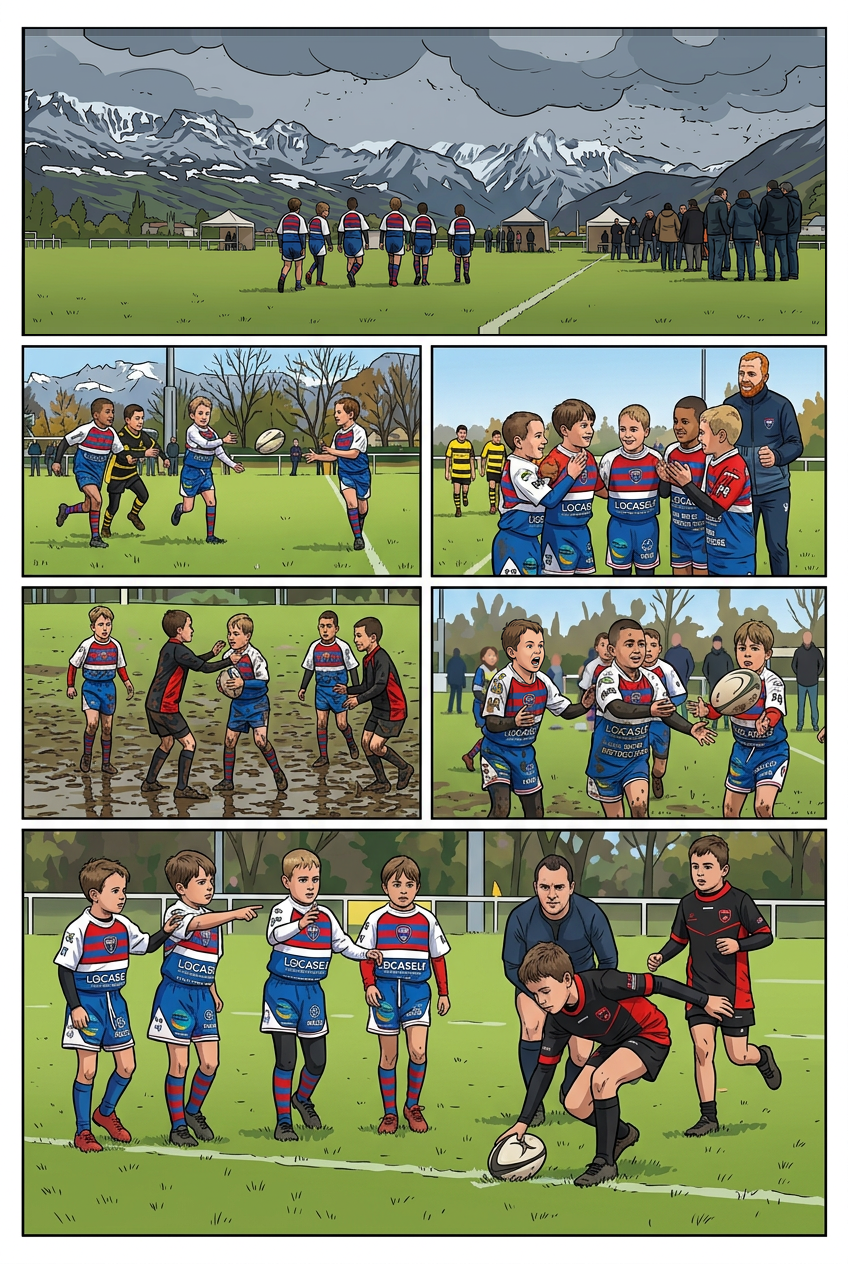
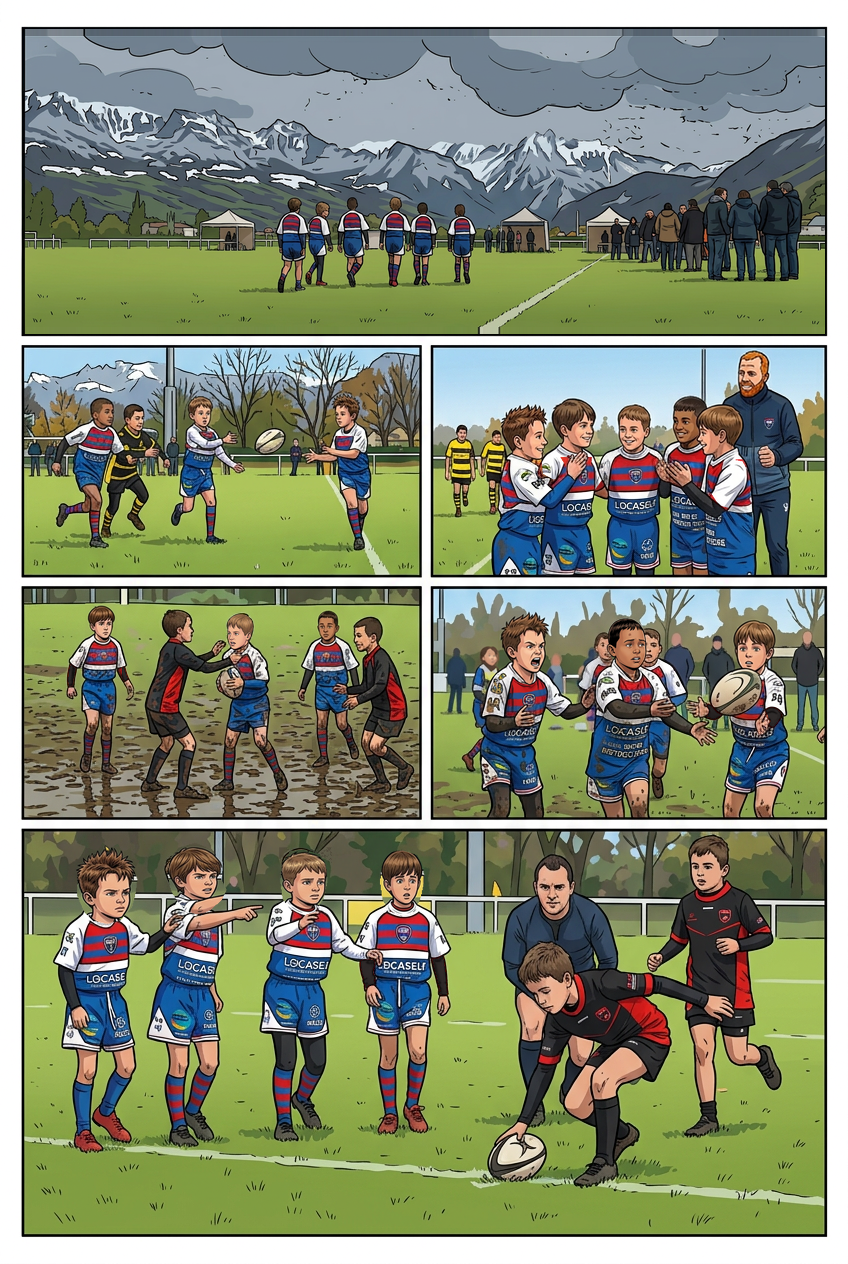
Reprendre la planche 13 et distinguer les controles sans retouche

diff --git a/outils/retouche/verifier_revue_couverture.py b/outils/retouche/verifier_revue_couverture.py
@@ -28,7 +28,22 @@ def main():
     changes = plan['corrections']
     ids = {c['vignette'] for c in changes}
     assert len(ids) == len(changes), 'Correction dupliquée'
-    assert ids == {v['vignette'] for v in frames if v['etat'] != 'a_controler_individuellement'}
+    unchanged = plan.get('relectures_sans_retouche', [])
+    reviewed_ids = {r['vignette'] for r in unchanged}
+    assert len(reviewed_ids) == len(unchanged), 'Relecture sans retouche dupliquée'
+    assert not (ids & reviewed_ids), 'Une relecture sans retouche ne doit pas être comptée comme correction'
+    assert reviewed_ids == {v['vignette'] for v in frames if v['etat'] == 'controle_premiere_passe_sans_retouche_relecture_globale_a_faire'}
+    assert ids | reviewed_ids == {v['vignette'] for v in frames if v['etat'] != 'a_controler_individuellement'}
+    for r in unchanged:
+        assert r['page'] == int(r['vignette'].split('-')[0])
+        path = ROOT / r['fichier']
+        before = Image.open(BytesIO(original(r['base'], path))).convert('RGB')
+        after = Image.open(path).convert('RGB')
+        box = tuple(r['rectangle'])
+        assert 0 <= box[0] < box[2] <= after.width and 0 <= box[1] < box[3] <= after.height
+        old_pixels = before.crop(box).tobytes()
+        assert old_pixels == after.crop(box).tobytes(), f"Relecture sans retouche modifiée : {r['vignette']}"
+        assert hashlib.sha256(old_pixels).hexdigest() == r['sha256_pixels']
     assert {e['page'] for e in plan['fichiers_apres']} == set(range(31))
     assert len(plan['fichiers_apres']) == 31
     for c in changes:
@@ -70,9 +85,13 @@ def main():
     assert bilan['vignettes_corrigees_premiere_passe'] == counts['reprise_graphique']
     assert bilan['vignettes_correction_partielle'] == counts['correction_partielle']
     assert bilan['vignettes_a_controler_individuellement'] == pending
+    assert bilan.get('vignettes_controlees_sans_retouche', 0) == len(unchanged)
+    assert counts['reprise_graphique'] + counts['correction_partielle'] + pending + len(unchanged) == len(frames)
     assert bilan['validations_definitives'] == 0
     print('OK : couverture inchangée, 31 empreintes/dimensions, seules les corrections déclarées ont changé, localité par masques.')
     print(f"Inventaire : 153 vignettes ; {counts['reprise_graphique']} premières reprises, {counts['correction_partielle']} corrections partielles, {pending} contrôles individuels encore à faire.")
+    if unchanged:
+        print(f'Contrôles sans retouche : {len(unchanged)} ; pixels identiques à leur référence enregistrée, aucune certification graphique définitive.')
     print('EN COURS. Aucune validation définitive de ressemblance ou de style par ces tests.')
 
 

diff --git a/Planches-dessin/validation/REVUE-COUVERTURE.md b/Planches-dessin/validation/REVUE-COUVERTURE.md
@@ -21,12 +21,13 @@ Les huit recadrages exacts sont dans `revue-couverture/<Prénom>-couverture.png`
 |---|---:|
 | Planches vues en ensemble | 30 |
 | Vignettes réellement inventoriées | 153 |
-| Premières reprises intégrées, encore à relire | 64 |
+| Premières reprises intégrées, encore à relire | 69 |
 | Corrections seulement partielles, à poursuivre | 1 |
-| Autres vignettes restant à contrôler individuellement | 88 |
+| Contrôles sans retouche, encore à relire | 1 |
+| Autres vignettes restant à contrôler individuellement | 82 |
 | Validations définitives de style et ressemblance | **0** |
 
-Les 65 vignettes ayant reçu une intervention ne sont pas 65 vignettes définitivement conformes. Le reste de la revue demandée n’est pas terminé. Le manifeste `REVUE-COUVERTURE.json` conserve une entrée et un état explicite pour chacune des 153 vignettes.
+Les 70 vignettes ayant reçu une intervention ne sont pas 70 vignettes définitivement conformes. Le reste de la revue demandée n’est pas terminé. Le manifeste `REVUE-COUVERTURE.json` conserve une entrée et un état explicite pour chacune des 153 vignettes.
 
 ## Première livraison : 26/3 et 26/6
 
@@ -236,6 +237,28 @@ Comparatif : `revue-couverture/lot-n/12-AVANT-APRES.jpg` ; six masques à la ré
 
 **Réserves globales :** les exercices ne sont pas certifiés tactiquement par la seule correction des visages : recul de Julien en 12/1, touchés simultanés à deux mains en 12/2 et distance d'un mètre derrière le porteur en 12/3 restent à relire. Plis/marquages des manches, cohérence des sous-maillots de pluie, carnation de Nolann et encrage des corps/décors restent soumis à la relecture transversale. La scène de passe réussie peut être joyeuse, tandis que l'agacement de Léon, la réaction de Lyssandro et la gêne de Milo sont conservés en 12/6. Aucun dialogue, bulle ni onomatopée ajouté.
 
+## Quinzième livraison : les six vignettes de la planche 13
+
+**Cinq premières reprises et un contrôle sans retouche (13/1)**. Le suivi distingue désormais une case examinée mais conservée d'une correction réelle : la case d'ambiance ne doit pas être artificiellement modifiée pour faire monter un compteur. Ce nouvel état reste soumis à relecture globale et n'est pas une validation définitive.
+
+**13/1 :** paysage, montagnes enneigées, ciel nuageux, terrain et six joueurs anonymes de dos comparés à la source. Traitement déjà dessiné en BD et pas de portrait principal à reprendre à cette passe. Pixels intégralement conservés ; la scène ne prescrit pas seulement cinq joueurs. Vérifier encore l'encrage avec toute la série lors de la relecture finale.
+
+**13/2 :** Nolann passeur à gauche, Ayden relayeur au centre et Léon receveur à droite repris sur leurs portraits : courte frange brun foncé/teint mat, courte frange châtain clair, pics châtains. Candidat entier rejeté car les maillots d'Ayden/Léon devenaient blancs unis : portraits seuls retenus. Ballon, mains, adversaire jaune/noir, courses et décor hors masques conservés. Le dessin ne montre qu'une étape de la chaîne de passes, pas tout l'essai.
+
+**13/3 :** Cinq enfants en célébration gauche à droite Léon/Lyssandro/Ayden/Nolann/Milo identifiés à partir des coupes et des sources : pics châtains, frange de côté, courte frange châtain clair, courte frange brune et teint mat, frange pleine. Portrait de Kilian roux barbu repris. Manches courtes de Lyssandro et Milo remises en blanc, joie et mains conservées. Deux adversaires jaune/noir derrière maintenus hors masques.
+
+**13/4 :** Trois RCM repris : Milo à gauche, Ayden porteur au centre, Nolann derrière à droite. Grimace trop vieillie du premier Ayden rejetée au profit d'un portrait local plus jeune. Teint mat de Nolann raccordé localement aux membres visibles ; sous-manches rouges de Milo corrigées en noir. Les deux défenseurs rouge/noir, contacts à deux mains, ballon et terrain boueux restent d'origine hors masques.
+
+**13/5 :** Léon criant à gauche, Nolann passeur au centre et Milo surpris à droite repris. Le premier visage de Nolann était trop grimaçant : portrait local spécifique avec courte frange brun foncé et traits d'enfant, teint mat raccordé aux mains/jambes. Sous-manches rouges de Milo corrigées en noir. Ballon rebondissant, mains et deux enfants derrière ainsi que spectateurs hors masques conservés.
+
+**13/6 :** Quatre RCM visibles gauche à droite Léon/Lyssandro/Ayden/Milo : têtes/coiffures reprises, Ayden ramené du blond au châtain clair. Sous-manches rouges de Milo remises en noir ; sous-maillot blanc d'Ayden conservé sans importer le rouge inventé du candidat. Essai adverse, ballon, ligne, deux Rumilly rouge/noir et arbitre hors masques inchangés. Nolann n'est pas ajouté artificiellement à ce cadrage de quatre RCM.
+
+Preuves : `revue-couverture/lot-o/13-AVANT-APRES.jpg` et cinq masques. Aucun candidat complet intégré. Les têtes de 13/6 ont été recalées et détourées individuellement après rejet d'un premier montage qui conservait des morceaux des anciennes têtes. Les maillots devenus blancs unis en 13/2 et les sous-manches rouges inventées d'Ayden en 13/6 n'ont pas été importés. Relecture après montage à l'échelle des cases et de la page.
+
+**Réserves globales :** raccords de carnation de Nolann et attribution des mains entre garçons se félicitant, homogénéité de détail entre portraits et corps, petits marquages/tenues et lecture de la chaîne de passes vers l'essai en 13/2. Les adultes anonymes/arbitre ne sont pas arbitrairement transformés en un des trois éducateurs. Aucun dialogue, bulle ni onomatopée ajouté.
+
+Le vérificateur cumulatif prend désormais en charge les contrôles sans retouche : liste distincte, état cohérent, absence de double comptage, somme des catégories égale à 153 et pixels identiques au commit de référence de chaque relecture. Les contrôles de couverture, dimensions, empreintes et localité des corrections demeurent en place. Cette vérification d'invariance ne certifie pas le style du paysage.
+
 ## Contrôles techniques et audits historiques
 
 `outils/retouche/verifier_revue_couverture.py` compare les 31 PNG au début de la revue : couverture inchangée, dimensions, empreintes, absence de modification des fichiers non concernés et invariance des pixels hors masques. Il contrôle également la cohérence des états et du bilan. **Il ne mesure pas la ressemblance ou la qualité du dessin.**
@@ -244,7 +267,7 @@ Les vérificateurs des audits 13–22, comme ceux de 23–30, s’appliquent dé
 
 ## Suite obligatoire
 
-Contrôler individuellement les **88 autres vignettes**, terminer **14/2**, puis relire les premières reprises, notamment les six cases de la planche 4 et les réserves de scénario. Vérifier systématiquement chaque occurrence de Nolann et des sept autres personnages, ainsi que décors et encrage : la revue ne peut pas se limiter aux couleurs de peau/cheveux.
+Contrôler individuellement les **82 autres vignettes**, terminer **14/2**, puis relire les premières reprises, notamment les six cases de la planche 4 et les réserves de scénario. Vérifier systématiquement chaque occurrence de Nolann et des sept autres personnages, ainsi que décors et encrage : la revue ne peut pas se limiter aux couleurs de peau/cheveux.
 
 Procédure : identification au scénario → comparaison aux personnages de couverture → comparaison à la planche réaliste → correction locale → relecture en contexte de page. Les raccords cou/cheveux/mains et les tenues restent à contrôler. Aucun candidat simplement généré n’est automatiquement validé.
 

diff --git a/Planches-dessin/SUIVI-STYLE.md b/Planches-dessin/SUIVI-STYLE.md
@@ -2,7 +2,7 @@
 
 **La couverture `00-couverture-marvel.png` est désormais la seule référence de style et d’identité.** La décision utilisateur remplace la priorité V2 décrite dans l’historique ci-dessous. La couverture reste inchangée.
 
-Suivi actuel : [`validation/REVUE-COUVERTURE.md`](validation/REVUE-COUVERTURE.md) et son manifeste JSON : 153 vignettes inventoriées, 64 premières reprises, 1 correction partielle, 88 autres contrôles individuels à faire, aucune validation définitive. Les anciennes approbations ne valent pas conformité au nouveau référentiel.
+Suivi actuel : [`validation/REVUE-COUVERTURE.md`](validation/REVUE-COUVERTURE.md) et son manifeste JSON : 153 vignettes inventoriées, 69 premières reprises, 1 contrôle sans retouche, 1 correction partielle, 82 autres contrôles individuels à faire, aucune validation définitive. Les anciennes approbations ne valent pas conformité au nouveau référentiel.
 
 ---
 
